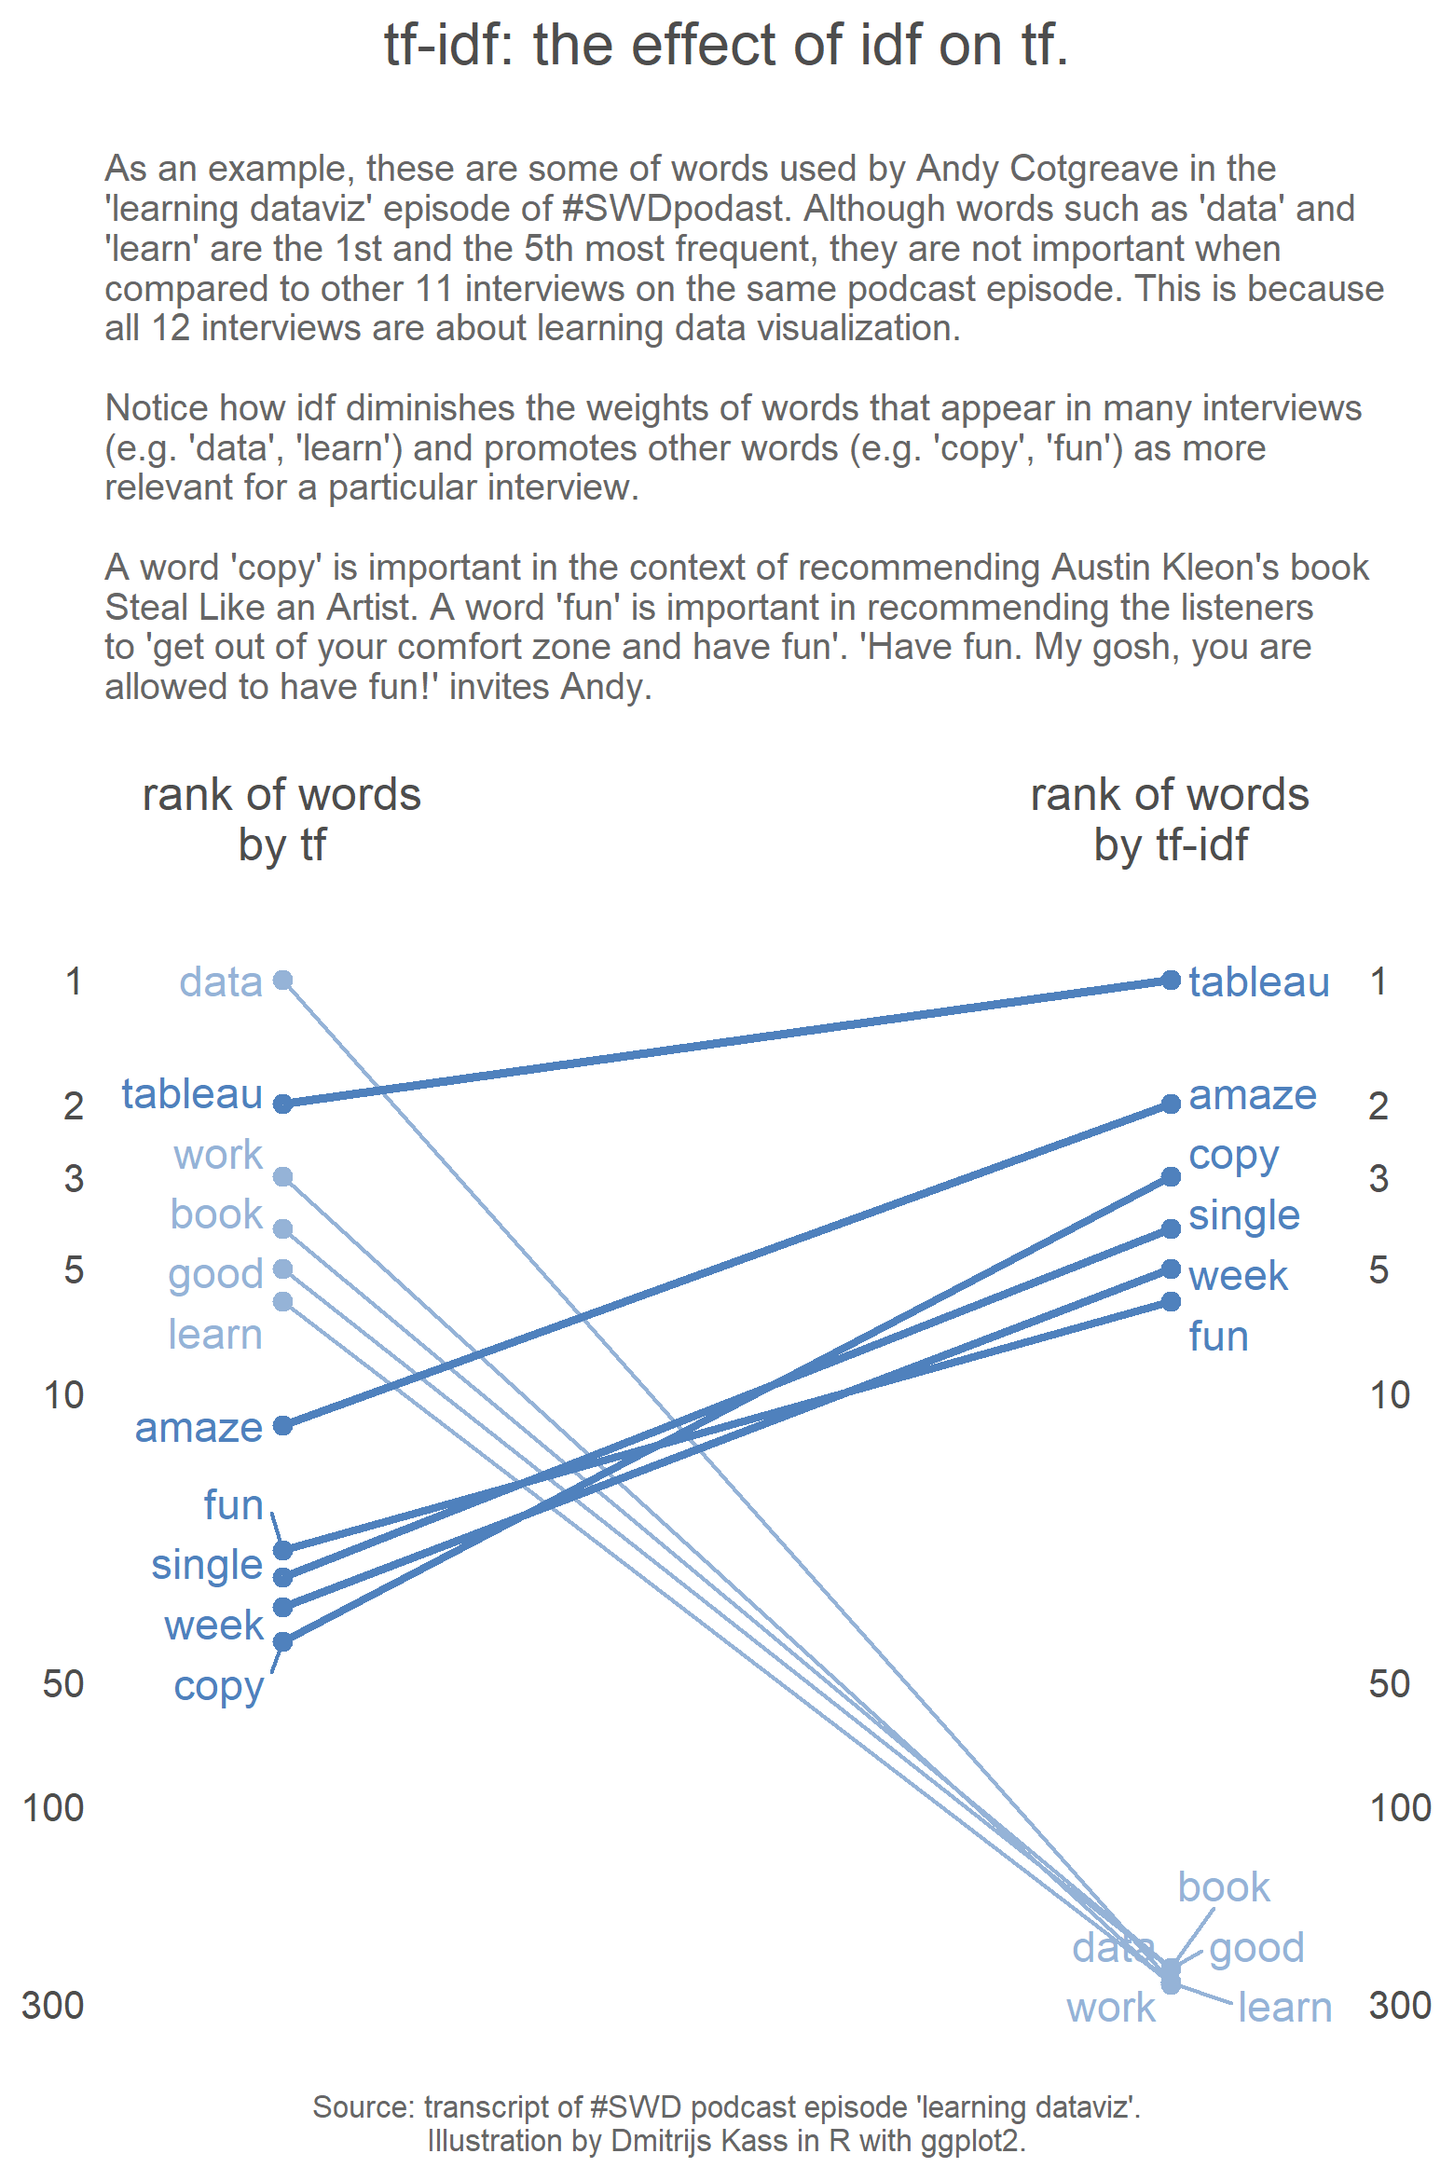
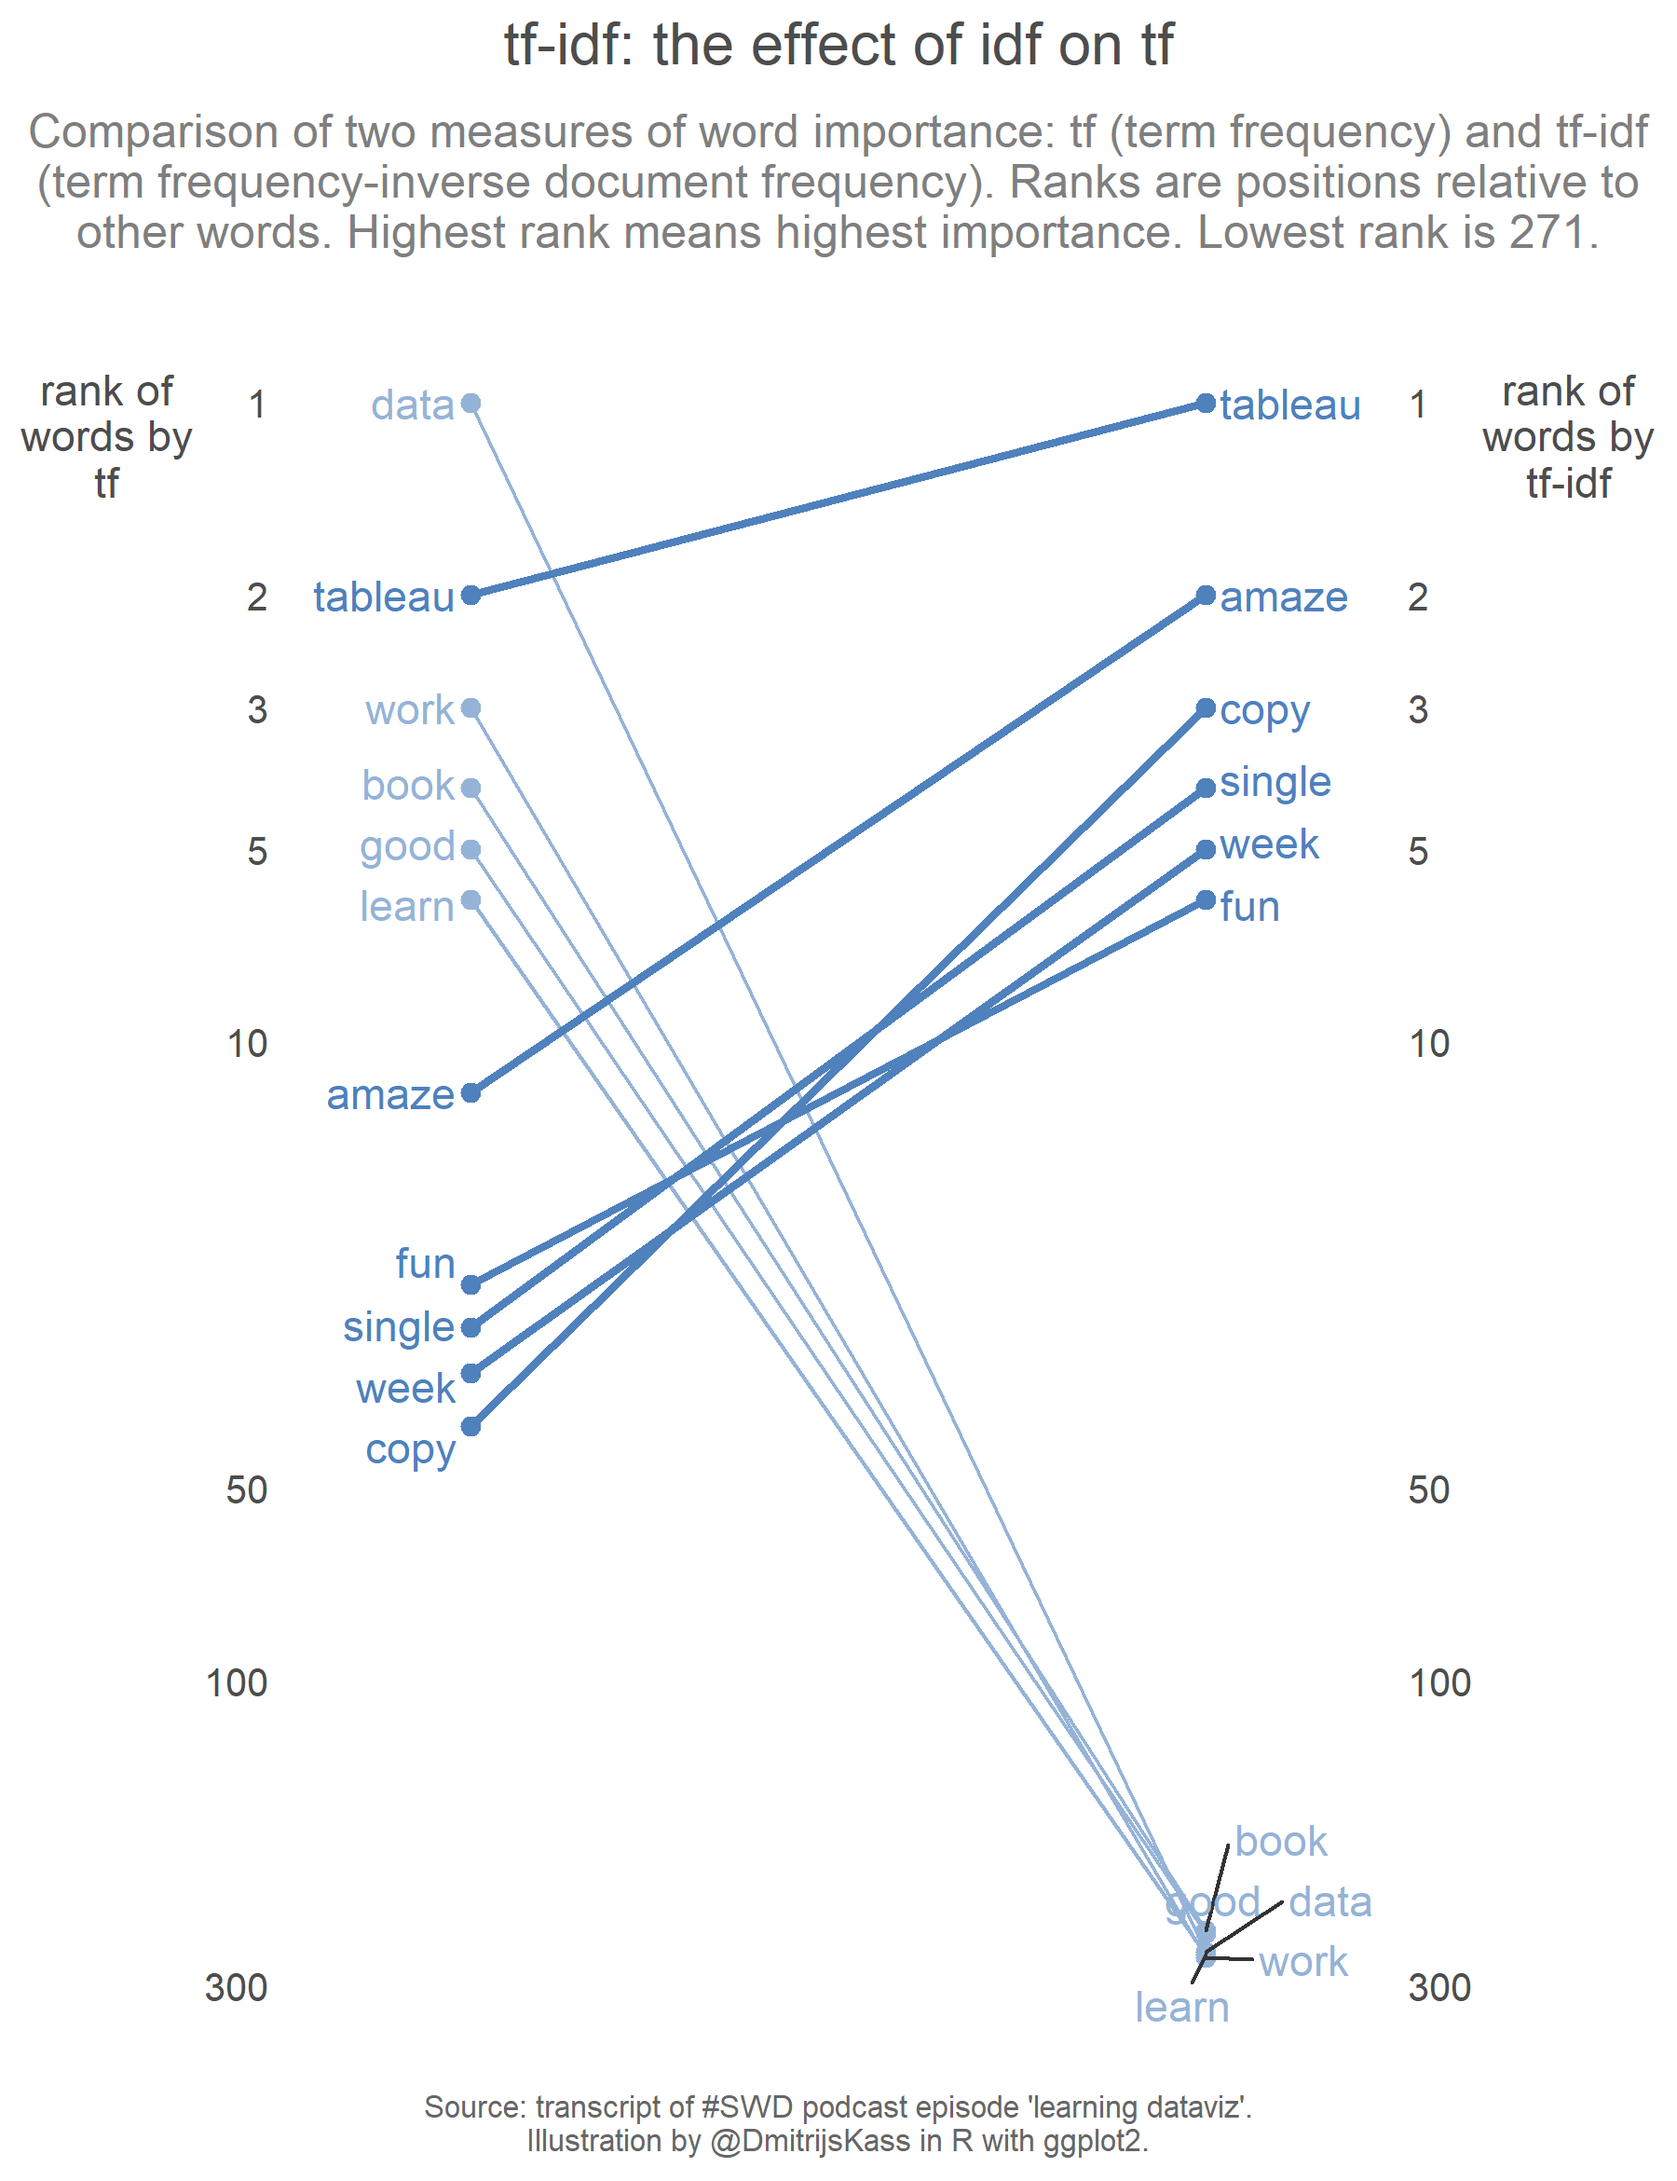
Source all code from R script in 1 line.

diff --git a/content/post/2019-05-08-swdchallenge-artisanal-data.html b/content/post/2019-05-08-swdchallenge-artisanal-data.html
@@ -78,7 +78,7 @@ example</code></pre>
 <p><strong>Inverse document frequency (idf)</strong> measures how important a term is in the context of other documents. Idf is computed as the logarithm of the number of the documents in the collection divided by the number of documents where the specific term appears:</p>
 <p><span class="math display">\[\text{idf}(t) = log_e\left(\frac{\text{Total number of documents}}{\text{Number of documents with term t in it}}\right).\]</span></p>
 <p>Here is the relationship between a number of documents with term <span class="math inline">\(t\)</span> in it and the term’s idf. I assume there are 12 documents in the collection:</p>
-<p><img src="/post/2019-05-08-swdchallenge-artisanal-data_files/figure-html/unnamed-chunk-6-1.png" width="480" style="display: block; margin: auto;" /></p>
+<p><img src="/post/2019-05-08-swdchallenge-artisanal-data_files/figure-html/unnamed-chunk-4-1.png" width="480" style="display: block; margin: auto;" /></p>
 <p>The “learning dataviz” episode of #SWDpodcast is, well, about learning data visualization. Naturally, the word “learn” appears at least once in each of 12 interviews. Does it mean that this word is important? In describing the whole episode - yes. In describing any particular interview from this episode - no, at least in the understanding of idf. Because <em>all</em> interviewees use the word “learn”.</p>
 <p>The word “learn” appears in all 12 interviews, so its idf is zero:</p>
 <p><span class="math display">\[\text{idf}(learn)=log_e(12/12)=log_e(1)=0\]</span></p>
@@ -91,11 +91,12 @@ example</code></pre>
 </div>
 <div id="tfidf" class="section level1">
 <h1>tf-idf: the effect of idf on tf visualised</h1>
-<p>The plot below depicts changes in <em>ranks</em> (position relative to other words) for the most important words in Andy Cotgreave’s interview in the “learning dataviz” episode of #SWDpodast measured by tf (on the left) and tf-idf (on the right). Tf gives the highest weight to words that are simply used most frequently. It is a local measure in a sense that it ignores other interviews in the same podcast episode.</p>
+<p>Next I use the most important words, as measured by tf and tf-idf, from Andy Cotgreave’s interview in the “learning dataviz” episode of #SWDpodast. The plot below visualises changes in <em>ranks</em> - slopes go from tf ranks on the left to tf-idf ranks on the right. Ranks are positions relative to other words. Highest rank means highest importance. There are 271 unique words, so the lowest possible ranks is 271.</p>
+<p>Tf gives the highest weight to words that are simply used most frequently. It is a local measure in a sense that it ignores other interviews in the same podcast episode.</p>
 <p>Multiplication of tf by idf, which gives tf-idf, diminished the importance of words that are common across all interviews, such as “data” and “learn”. At the same time it amplifies the importance of rare words, such as “copy” and “fun”.</p>
-<p>A word “copy” is used only in Andy’s interview. It is used in the context of recommending Austin Kleon’s book “Steal Like an Artist”. A word “fun” is used only in two more interviews. Andy recommends listeners to <em>“get out of your comfort zone and have fun”</em>. And continues with saying <em>“Have fun. My gosh, you are allowed to have fun!”</em>. Let’s do it!</p>
-<p><img src="/post/2019-05-08-swdchallenge-artisanal-data_files/figure-html/unnamed-chunk-7-1.png" width="576" style="display: block; margin: auto;" /></p>
-<p>Below is the data used for plotting. There are 12 interviews. Andy Cotgreave’s interview contains 540 words, 271 of them unique. Importance ranks are positions relative to other words.</p>
+<p>A word “copy” is used only in Andy’s interview. It is used in the context of recommending Austin Kleon’s book “Steal Like an Artist”. A word “fun” is used only in two more interviews. Andy says <em>“… get out of your comfort zone and have fun. Have fun. My gosh, you are allowed to have fun …”</em>. Let’s do it!</p>
+<p><img src="/post/2019-05-08-swdchallenge-artisanal-data_files/figure-html/unnamed-chunk-5-1.png" width="576" style="display: block; margin: auto;" /></p>
+<p>Below is the data used for plotting. There are 12 interviews. Andy Cotgreave’s interview contains 540 words, 271 of them unique. There are six words with zero tf-idf (three of them in a table below), they share tf-idf ranks from 266 to 271.</p>
 <table>
 <thead>
 <tr>
